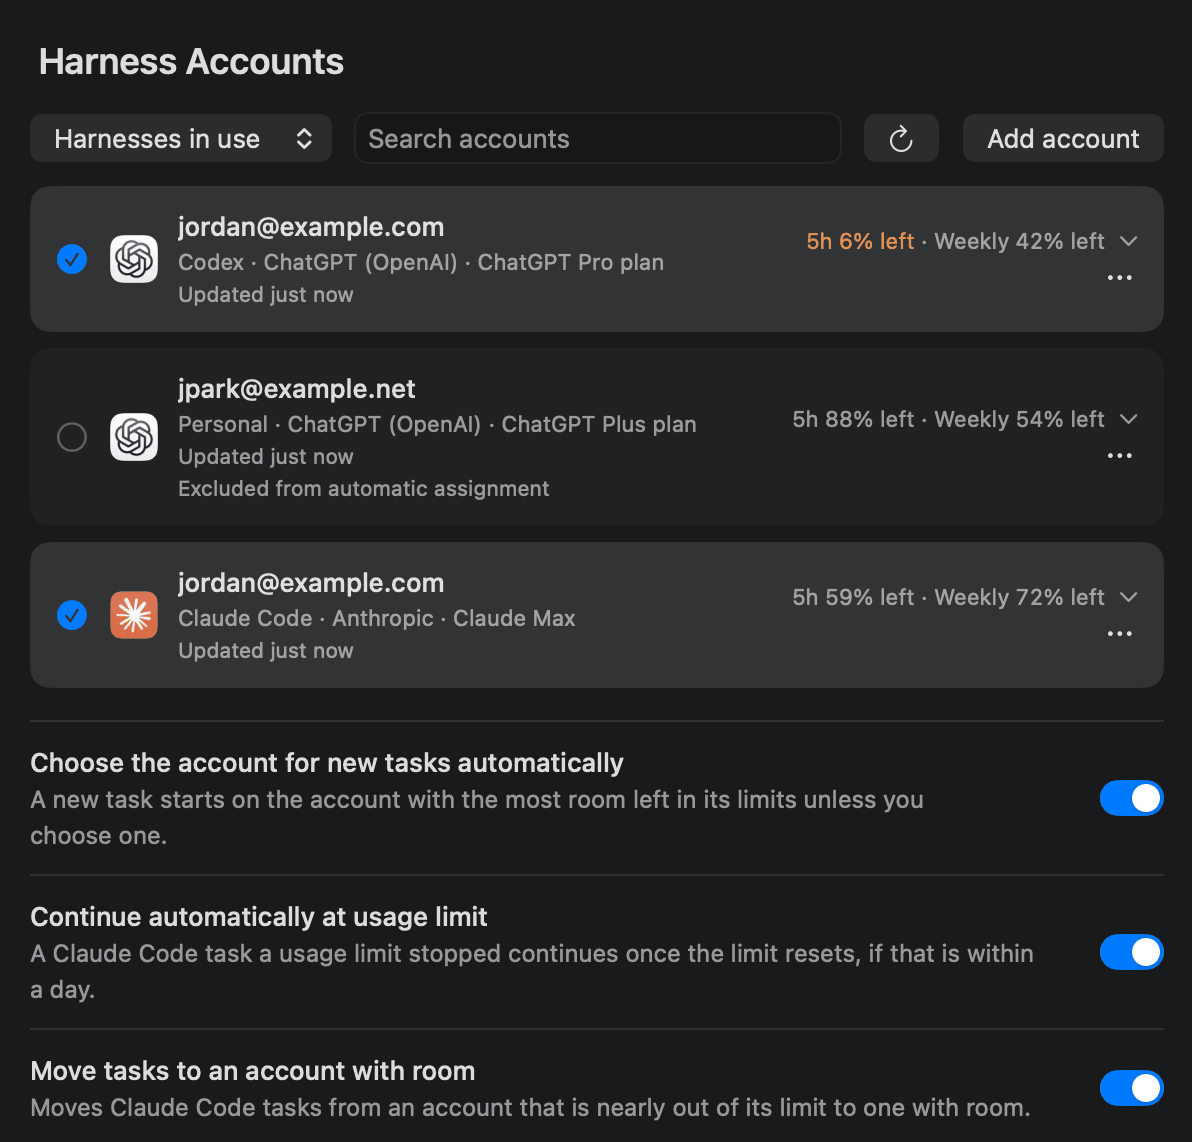
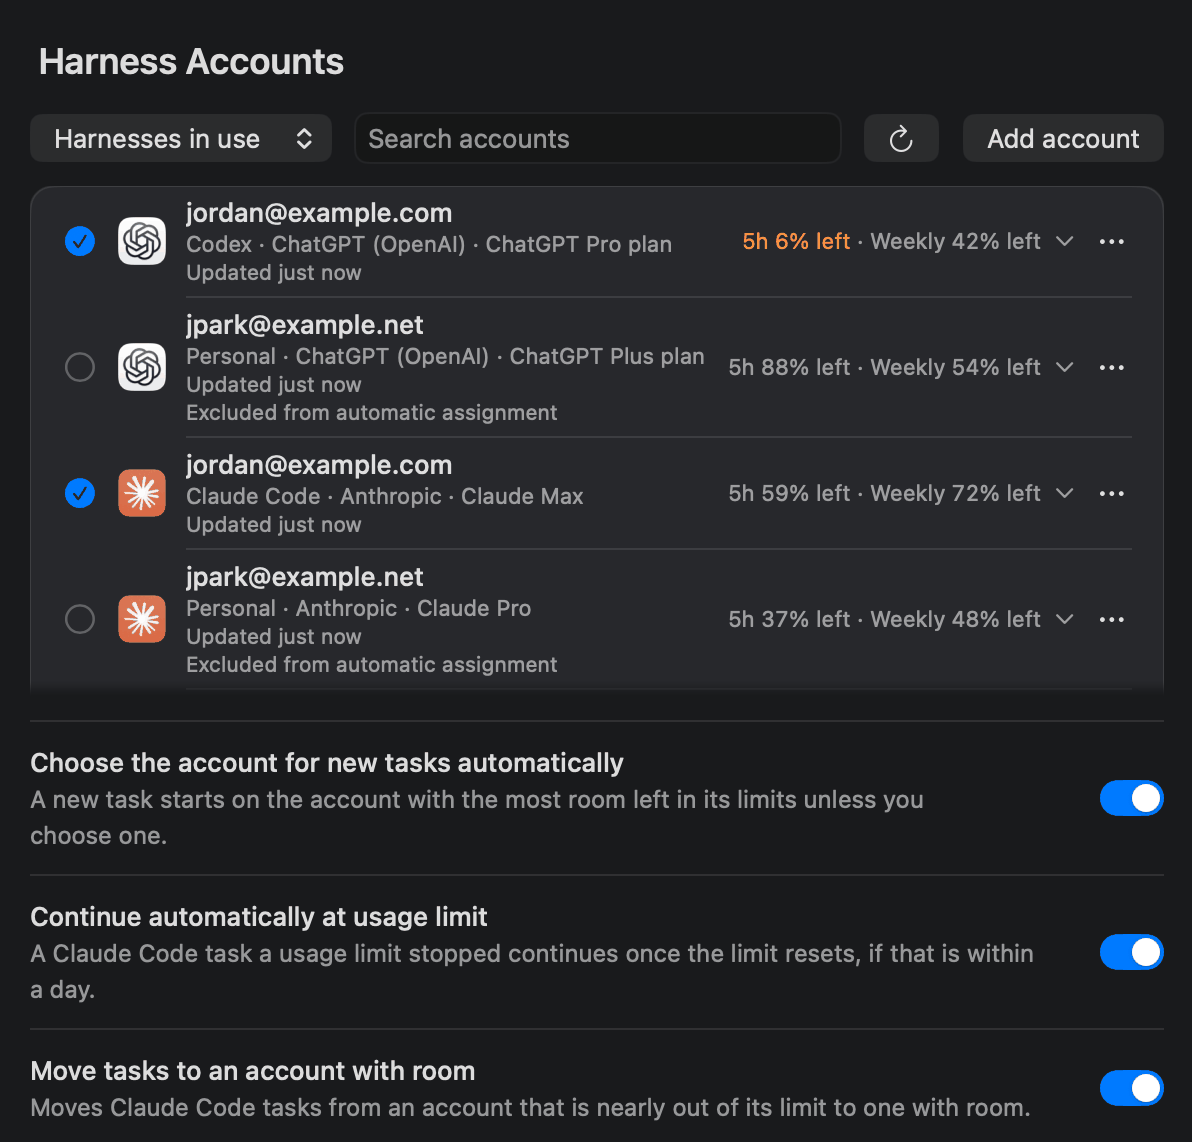
Show the polished Harness Accounts page in the mock: one grouped list, as Connectors draws it

diff --git a/index.html b/index.html
@@ -372,7 +372,7 @@
             <div class="beside-body page">
               <picture>
                 <source media="(prefers-color-scheme: dark)" srcset="screens/panel-accounts-dark.png">
-                <img src="screens/panel-accounts-light.png" width="1192" height="1142" loading="lazy" alt="Settings, Harness Accounts: two Codex accounts and a Claude Code account, each with what is left of its five-hour and weekly limits, over the switches that choose the account for new tasks, continue after a limit and move tasks to an account with room.">
+                <img src="screens/panel-accounts-light.png" width="1192" height="1142" loading="lazy" alt="Settings, Harness Accounts: two Codex accounts and two Claude Code accounts in one list, each with what is left of its five-hour and weekly limits, over the switches that choose the account for new tasks, continue after a limit and move tasks to an account with room.">
               </picture>
             </div>
           </div></section>
